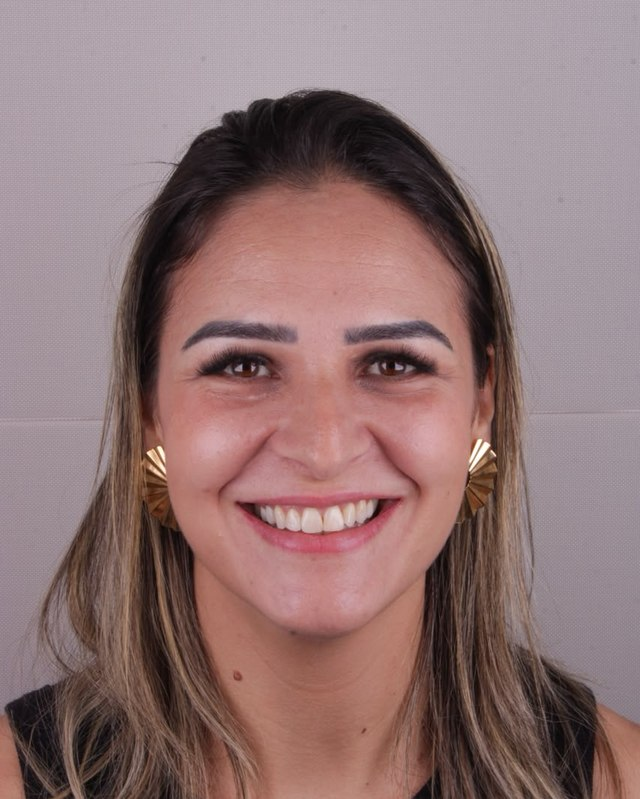
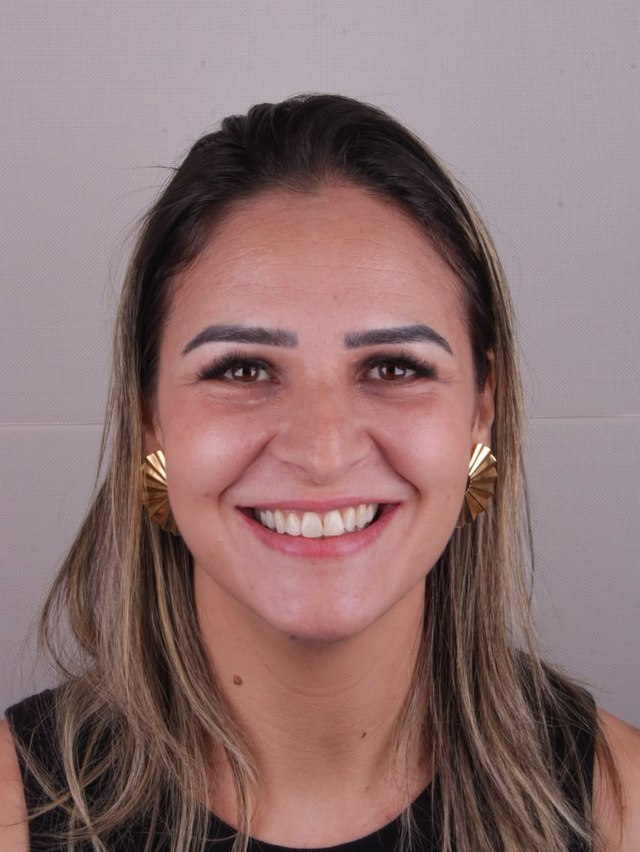
Ajusta fotos de antes/depois para proporcao mais retangular (3:4)
Recorta os 4 casos novamente a partir das imagens originais em 3:4
em vez de 4:5, ficando menos quadrado e mais elegante, como pedido.
Aplica a mesma proporcao na janela de comparacao (lightbox).

diff --git a/index.html b/index.html
@@ -320,7 +320,7 @@
   }
   .ad-split{display:grid;grid-template-columns:1fr 1fr;}
   .ad-half{
-    aspect-ratio:4/5;
+    aspect-ratio:3/4;
     display:flex;flex-direction:column;align-items:center;justify-content:flex-end;
     position:relative;
     background-size:cover;
@@ -452,7 +452,7 @@
   }
   .lightbox-close:hover{background:rgba(0,0,0,.7);}
   .lightbox-images{display:grid;grid-template-columns:1fr 1fr;}
-  .lightbox-half{position:relative;aspect-ratio:4/5;}
+  .lightbox-half{position:relative;aspect-ratio:3/4;}
   .lightbox-half:first-child{border-right:1px solid rgba(255,255,255,.08);}
   .lightbox-img{position:absolute;inset:0;background-size:cover;background-position:center 38%;}
   .lightbox-half .lbl{
